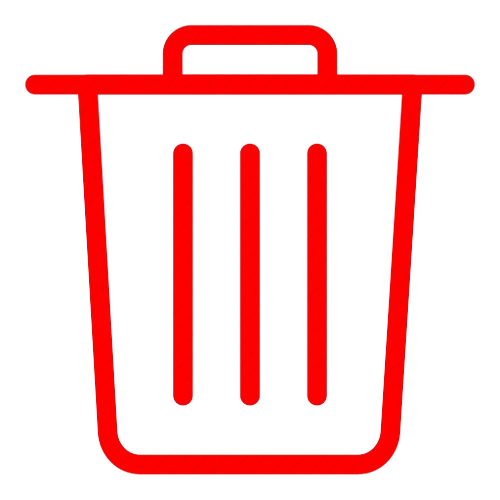
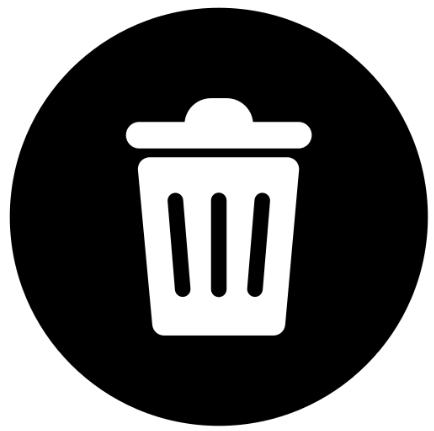
- add delete issue button - change dashboard page layout & interface

diff --git a/frontend/src/components/Dashboard.js b/frontend/src/components/Dashboard.js
@@ -2,7 +2,8 @@
 import React, { useState, useEffect } from 'react'
 import { Link } from 'react-router-dom'
 import userService from '../services/users'
-import './ProjectDetail.css'
+// import './ProjectDetail.css'
+import './Dashboard.css'
 
 function Dashboard({ currentUser }) {
   const [openIssues, setOpenIssues] = useState([])
@@ -22,36 +23,50 @@ function Dashboard({ currentUser }) {
 
   return (
     <div className="dashboard">
-      {openIssues.length > 0 && <div>
-        <h2>Open Issues</h2>
-        <ul className="project-detail-issue-list">
-          {openIssues.map((issue) => (
-            <li key={issue.id} className="project-detail-issue-item">
-              <Link to={`project/${issue.project.id}/${issue.id}`} className="project-detail-issue-link">
-                <div className="project-detail-issue-info">
-                  <div>
-                    <h3 className="project-detail-issue-title">{issue.title}</h3>
-                    <p className="project-detail-issue-due-date">
-                      Due Date: {
-                        new Date(issue.dueDate).toLocaleDateString('en-GB', {
-                          day: '2-digit',
-                          month: '2-digit',
-                          year: 'numeric',
-                        })}
-                    </p>
-                    <Link to={`/project/${issue.project.id}`} className="dashboard-project-link">
-                      <p>Project: {issue.project.name}</p>
-                    </Link>
-                  </div>
-                </div>
-              </Link>
-            </li>
-          ))}
-        </ul>
+      <div className="dashboard-header">
+        <h2>Issue Dashboard</h2>
+        <div className="search-box">
+          <input type="text" placeholder="Find Issue..." />
+        </div>
       </div>
-      }
+      {openIssues.length > 0 ? (
+        <div className="issue-container">
+          <div className="issue-row header-row" style={{fontWeight: 'bold', backgroundColor: '#171b27'}}>
+            <div className="issue-column">Issue Name</div>
+            <div className="issue-column">Due Date</div>
+            <div className="issue-column">Project</div>
+            <div className="issue-column">Assignees</div>
+          </div>
+          {openIssues.map((issue) => (
+            <div className="issue-row" key={issue.id}>
+              <div className="issue-column">
+                <Link to={`project/${issue.project.id}/${issue.id}`} className="issue-link">
+                  {issue.title}
+                </Link>
+              </div>
+              <div className="issue-column">
+                {new Date(issue.dueDate).toLocaleDateString('en-GB', {
+                  day: '2-digit',
+                  month: '2-digit',
+                  year: 'numeric',
+                })}
+              </div>
+              <div className="issue-column">
+                <Link to={`/project/${issue.project.id}`} className="issue-link">
+                  {issue.project.name}
+                </Link>
+              </div>
+              <div className="issue-column">
+                {issue.assignees.map(assignee => assignee.name).join(', ')}
+              </div>
+            </div>
+          ))}
+        </div>
+      ) : (
+        <p>Loading...</p>
+      )}
     </div>
-  )
+  )  
 }
 
 export default React.memo(Dashboard)

diff --git a/frontend/src/App.css b/frontend/src/App.css
@@ -5,6 +5,9 @@
   box-sizing: border-box;
 }
 
+@import url('https://fonts.googleapis.com/css?family=Montserrat:400,700');
+
+
 /* Apply Segoe UI font to the entire app */
 body {
   font-family: 'Montserrat', sans-serif;
@@ -15,7 +18,7 @@ body {
 }
 
 h1, h2, h3, h4, h5, h6 {
-  font-family: 'Be Vietnam', sans-serif;
+  font-family: 'Montserrat', sans-serif;
 }
 
 /* App container */
@@ -32,7 +35,7 @@ h1, h2, h3, h4, h5, h6 {
   margin-left: 0;
   display: flex;
   flex-direction: column;
-  background-color: #3D405B;
+  background-color: #171b27;
   color: #fff;
   transition: margin-left 0.5s ease; 
 }
@@ -65,10 +68,12 @@ h1, h2, h3, h4, h5, h6 {
   display: flex;
   justify-content: space-between;
   align-items: center;
-  height: 70px;
-  background-color: #3D405B;
+  height: 12%;
+  background-color: #1d222e;
   color: #fff;
   z-index: 10; /* Ensure navbar is above sidebar */
+  border-bottom: 0.3px solid #5d5151; 
+  box-sizing: border-box;
 }
 
 
@@ -96,17 +101,20 @@ h1, h2, h3, h4, h5, h6 {
 .notification-btn, .sidebar-toggle-btn {
   background-color: transparent;
   border: none;
+  display: flex;
   cursor: pointer;
   color: #fff;
   font-size: 20px;
   margin-left: 10px;
   padding: 0;
   position: relative;
+  align-items: center; /* Centers the content of the button vertically */
+  justify-content: center; /* Centers the content of the button horizontally */
 }
 
 .notification-count {
   position: absolute;
-  top: -10px;  /* Adjust these values based on your specific layout */
+  top: -7px;
   right: -10px;
   width: 20px;
   height: 20px;
@@ -193,10 +201,18 @@ h1, h2, h3, h4, h5, h6 {
 }
 
 /* Logo styles */
+
+.logo {
+  display: flex;
+  align-items: center; /* Center the logo vertically within this div */
+}
+
 .logo img {
   width: 180px;
   height: auto;
+  max-height: 100%;
   padding-left: 20px;
+  position: relative;
 }
 
 /* Navigation links styles */
@@ -331,7 +347,7 @@ h1, h2, h3, h4, h5, h6 {
 .main-content {
   flex: 1;
   overflow-y: auto;
-  background-color: #3D405B;
+  background-color: #171b27;
   height: calc(100vh - 70px);
   padding: 15px;
   color: #fff;
@@ -346,13 +362,13 @@ h1, h2, h3, h4, h5, h6 {
 
 /* Styles the scrollbar handle */
 .main-content::-webkit-scrollbar-thumb {
-  background-color: #2c2c2e; /* scrollbar color */
+  background-color: #444452; /* scrollbar color */
   border-radius: 4px;        /* optional, for rounded corners */
 }
 
 /* Optional: Styles the scrollbar track */
 .main-content::-webkit-scrollbar-track {
-  background: #3D405B; /* color of the track, could be same as app background */
+  background: #171b27; /* color of the track, could be same as app background */
 }
 
 /* Dashboard Styles */
@@ -375,7 +391,7 @@ td {
 }
 
 th {
-  background-color: #3D405B;
+  background-color: #171b27;
 }
 
 .row-link {
@@ -387,7 +403,7 @@ th {
 
 /* Footer Styles */
 .footer {
-  background-color: #3D405B;
+  background-color: #171b27;
   color: #fff;
   /* Text color */
   padding: 15px;

diff --git a/frontend/src/App.js b/frontend/src/App.js
@@ -6,7 +6,6 @@ import {
   Route,
   Link,
   useParams,
-  // useMatch,
   useNavigate
 } from 'react-router-dom'
 
@@ -143,19 +142,19 @@ const App = () => {
     const numberOfUnreadNotifications = notifications.filter(notification => !notification.read).length
   
     return (
-      <nav className="navbar">
+      <div className="navbar">
         <div className="logo">
           <Link to="/" onClick={() => handleItemClick('')}>
-            <img src={scqcLogo} alt="SCQC Logo" />
+            <img className='logo' src={scqcLogo} alt="SCQC Logo" />
           </Link>
         </div>
-        <div className="navigation-links">
+        {/* <div className="navigation-links">
           <ul>
             <li><a href="#">Dự án & Phòng ban</a></li>
             <li><a href="#">Hoạt động</a></li>
             <li><a href="#">Thảo luận</a></li>
           </ul>
-        </div>
+        </div> */}
         <div className="toolbar-buttons">
           {/* Toggle Sidebar Button */}
           <button className="sidebar-toggle-btn" onClick={toggleSidebar}>
@@ -186,8 +185,8 @@ const App = () => {
             )}
           </div>
         </div>
-      </nav>
-    )    
+      </div>
+    ) 
   }
 
   function Sidebar({ isVisible }) {
@@ -525,9 +524,7 @@ const App = () => {
       {
         user && <div>
           <div className="App">
-      <div className="navbar">
         <NavigationBar toggleSidebar={() => setIsSidebarVisible(prev => !prev)} />
-      </div>
       <div className={`sidebar-wrapper ${isSidebarVisible ? '' : 'hidden'}`}>
         <Sidebar isVisible={isSidebarVisible} />
       </div>

diff --git a/frontend/src/components/Dashboard.css b/frontend/src/components/Dashboard.css
@@ -1,0 +1,76 @@
+.dashboard {
+  padding: 10px;
+  background-color: #171b27;
+  height: calc(100vh - 20px);
+  display: flex;
+  flex-direction: column;
+}
+
+.dashboard-header {
+  display: flex;
+  justify-content: space-between;
+  align-items: center;
+  margin-bottom: 20px;
+}
+
+.dashboard-header h2 {
+  margin: 0;
+  color: #DBCA49;
+}
+
+.search-box {
+  display: flex;
+  flex-shrink: 0;
+  align-items: center;  /* Ensures the input inside search-box is also vertically centered */
+}
+
+.search-box input {
+  padding: 8px;
+  border: 1px solid #574e4e;
+  border-radius: 4px;
+  background-color: #515561;
+  color: white;
+}
+
+.issue-container {
+  flex: 1; /* Takes remaining height */
+  overflow-y: auto; /* Allows scrolling */
+  display: flex;
+  flex-direction: column;
+  min-height: 0;
+}
+
+
+.issue-container .issue-row {
+  flex: 0 0 12%; /* No grow, no shrink, base size */
+  background-color: #131623;
+  margin-bottom: 5px;
+  border-radius: 8px;
+  align-items: center;
+  justify-content: center;
+  display: flex;
+  padding: 10px;
+  box-sizing: border-box;
+}
+
+.issue-container .header-row {
+  flex: 0 0 8%; /* Smaller height for the header row */
+  font-weight: bold;
+  background-color: #171b27;
+  color: #ffffff;
+  border-radius: 8px;
+}
+
+.issue-column {
+  flex: 1; /* Equal width for each column */
+  padding: 0 10px; /* Spacing for readability */
+}
+
+.issue-link {
+  color: #ffffff;
+  text-decoration: none;
+}
+
+.issue-link:hover {
+  text-decoration: underline;
+}

diff --git a/frontend/src/components/ProjectDetail.js b/frontend/src/components/ProjectDetail.js
@@ -5,6 +5,7 @@ import { useParams, Link } from 'react-router-dom'
 import issueService from '../services/issues'
 import UserContext from './UserContext'
 import NewIssueForm from './NewIssueForm'
+import delete_button from '../img/delete.png'
 
 function ProjectDetail({ projects }) {
   const [showIssueForm, setShowIssueForm] = useState(false)
@@ -37,6 +38,16 @@ function ProjectDetail({ projects }) {
     if (newIssue.title != '') {
       const issue = await issueService.create(projectId, newIssue)
       setIssues(issues.concat(issue))
+    }
+  }
+
+  const handleDeleteIssue = async (issueId, event) => {
+    event.stopPropagation()
+    const confirmDelete = window.confirm('Are you sure you want to delete this issue?');
+  
+    if (confirmDelete) {
+      await issueService.remove(projectId, issueId)
+      setIssues((prevIssues) => prevIssues.filter((issue) => issue.id !== issueId))
     }
   }
 
@@ -102,6 +113,9 @@ function ProjectDetail({ projects }) {
                     </span>
                   </div>
                 </Link>
+                <button className="delete-button" onClick={(e) => handleDeleteIssue(issue.id, e)}>
+                  <img className="delete-button-img" src={delete_button} alt="Delete" />
+                </button>
               </li>
             ))}
           </ul>

diff --git a/frontend/src/components/ProjectDetail.css b/frontend/src/components/ProjectDetail.css
@@ -56,3 +56,15 @@
 .project-detail-issue-item:last-child {
   margin-bottom: 0;
 }
+
+.delete-button {
+  background-color: transparent;
+  border: none;
+  cursor: pointer;
+}
+
+.delete-button-img {
+  width: 30px;
+  height: 30px;
+  border-radius: 50%;
+}
